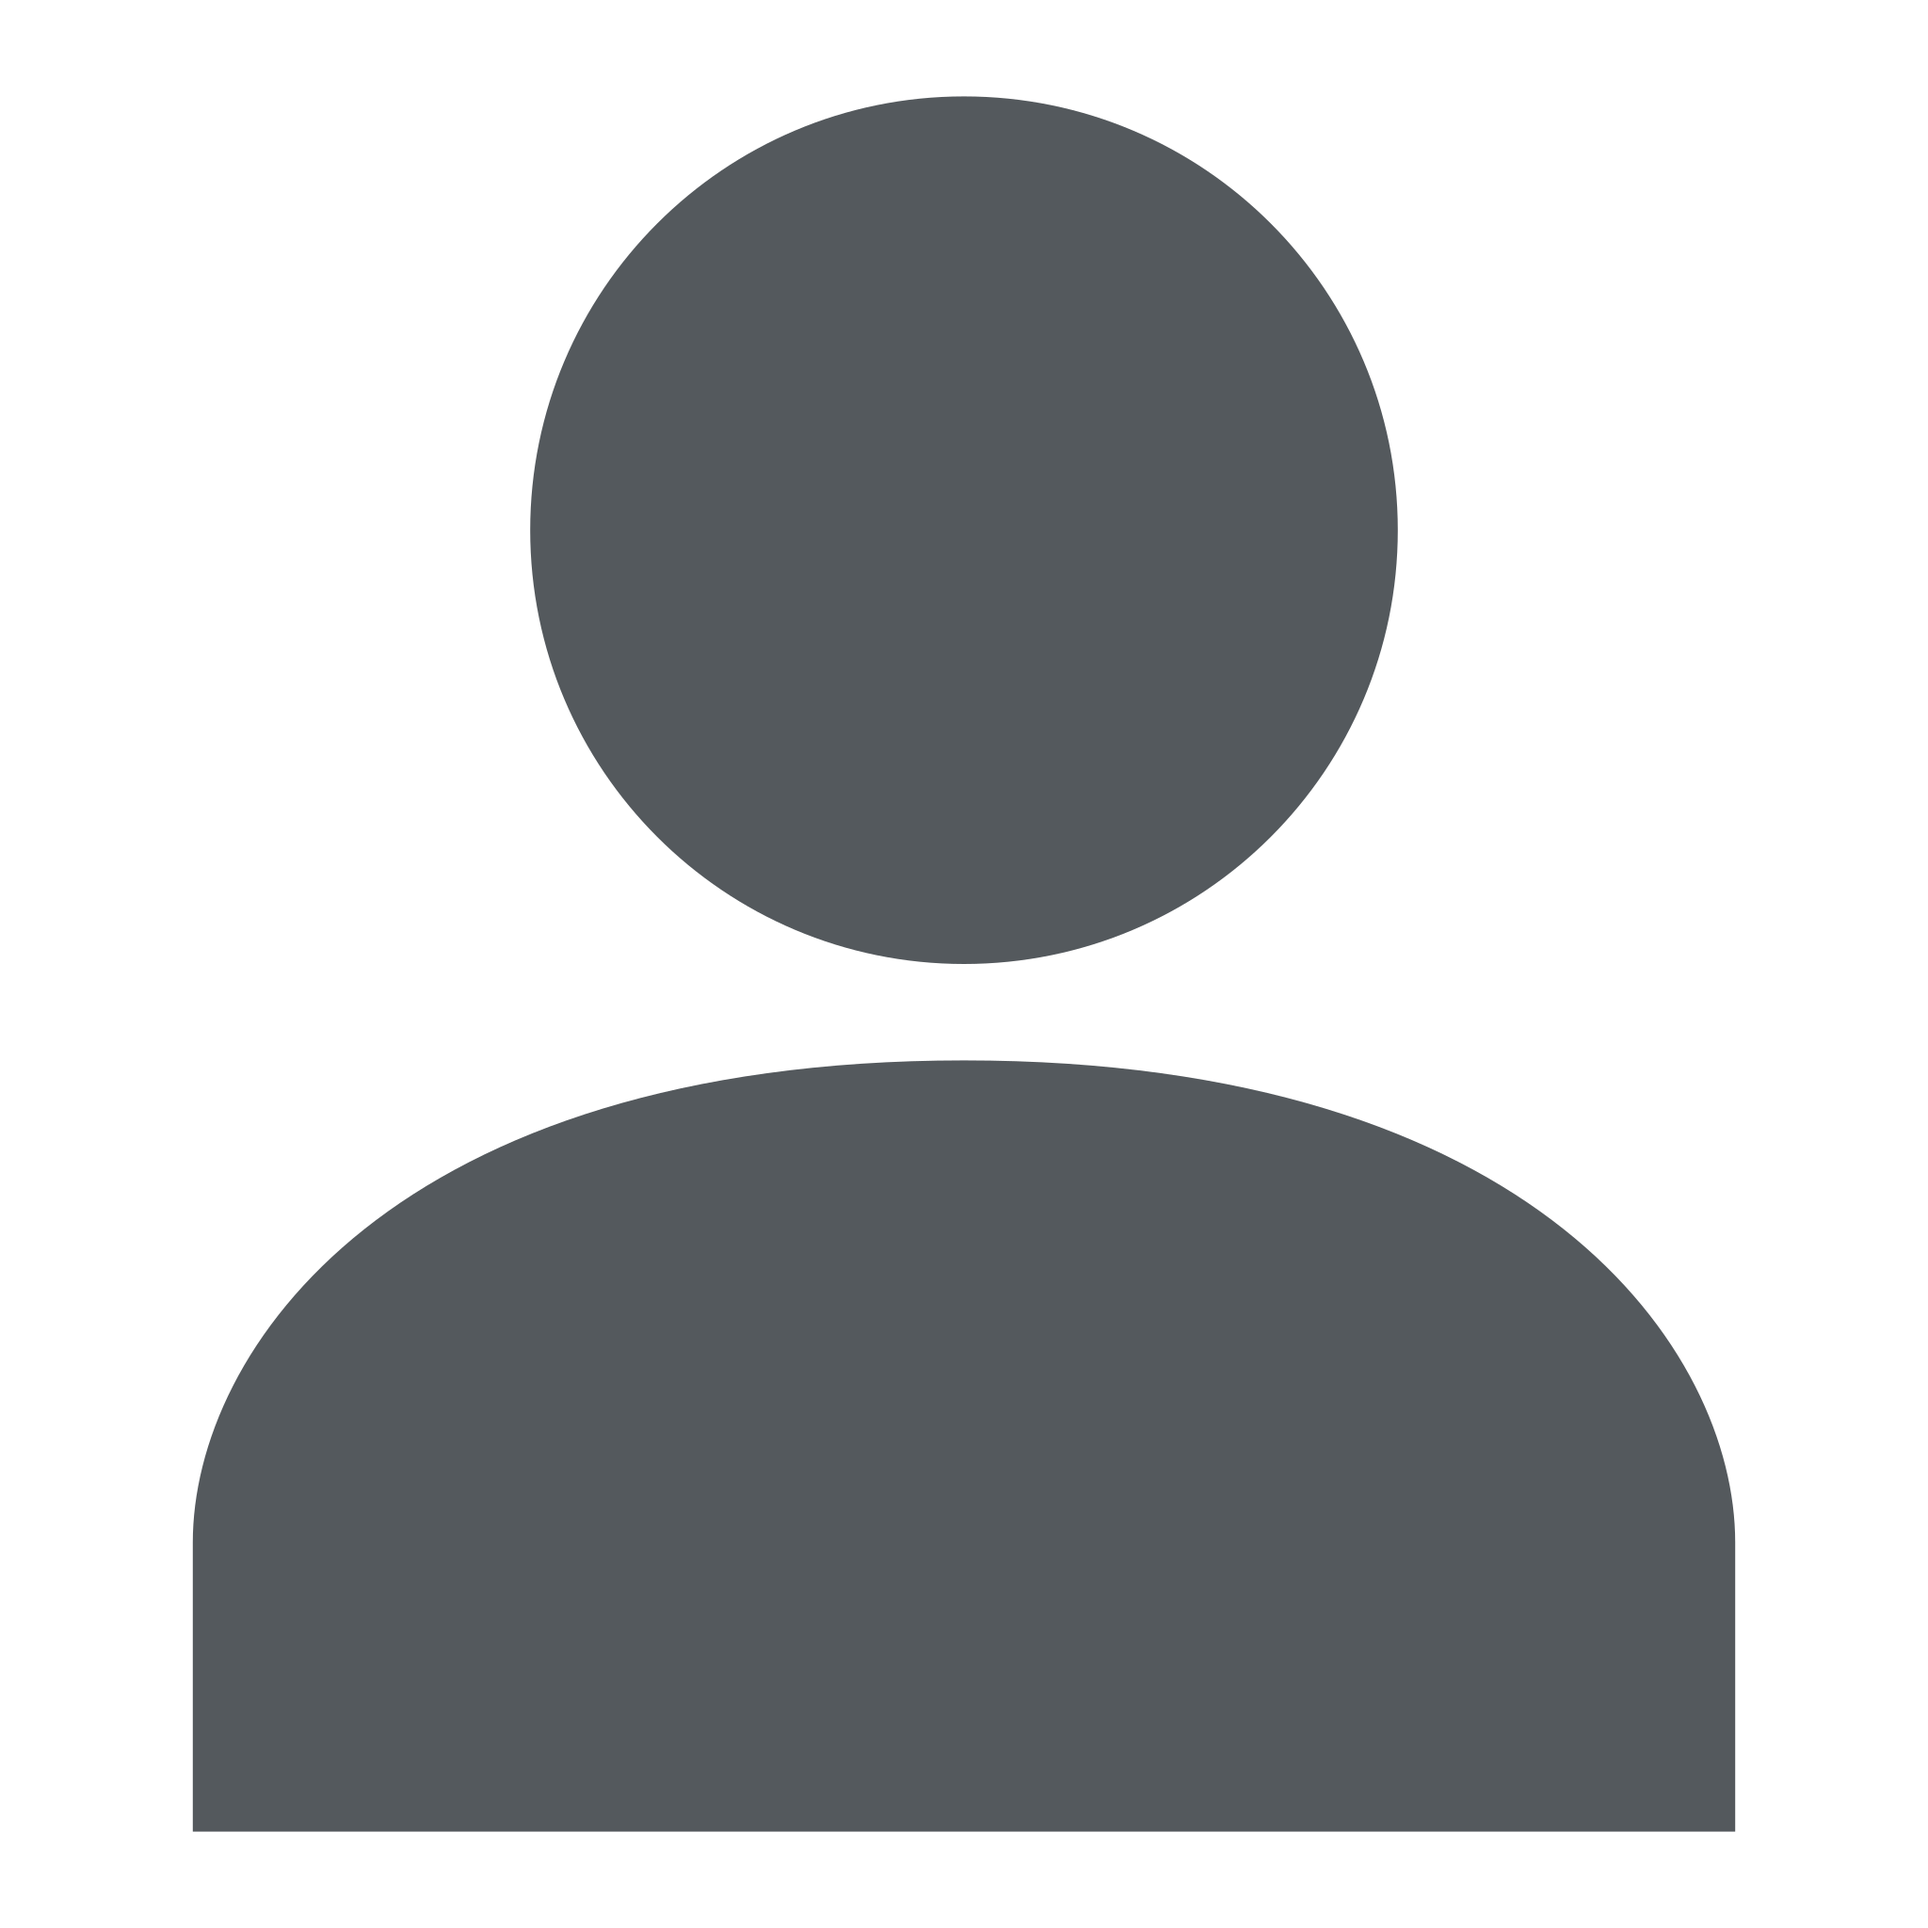
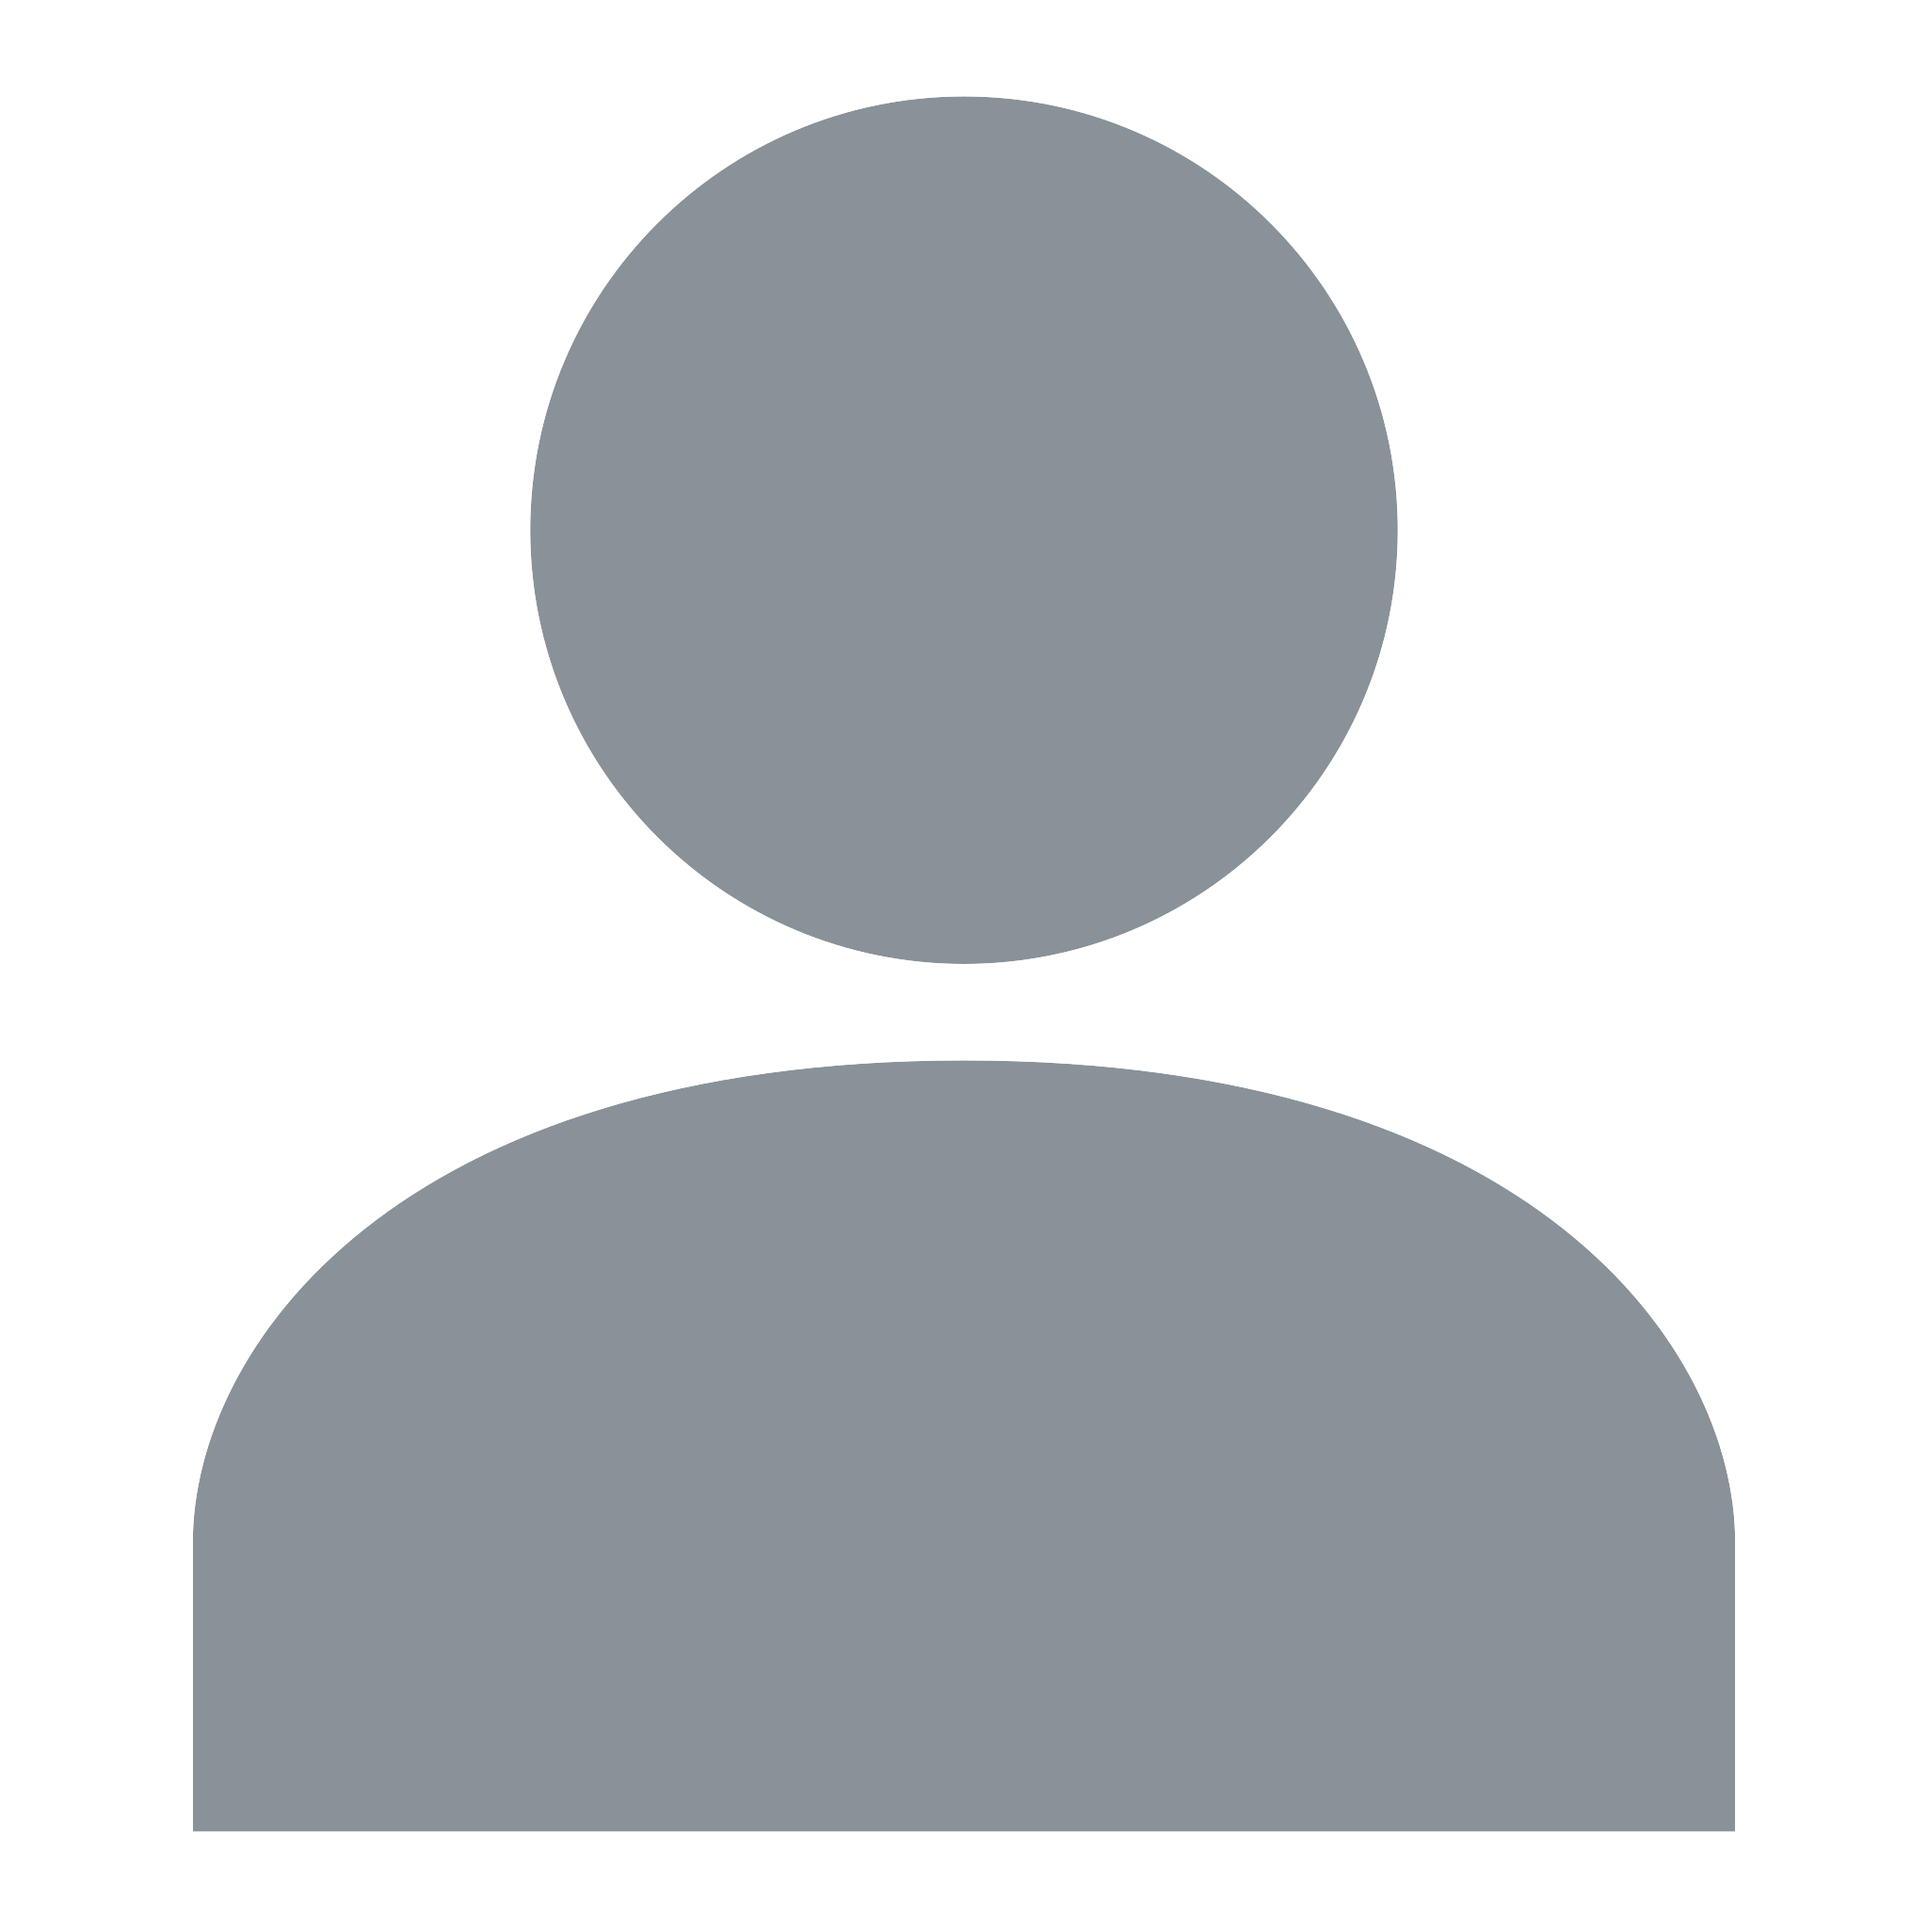
colour scheme and navbar changes

diff --git a/app/assets/stylesheets/pages/_show.scss b/app/assets/stylesheets/pages/_show.scss
@@ -17,7 +17,8 @@
   box-shadow: 1px 1px 2px rgba(0, 0, 0, 0.1);
   padding: 20px;
   width: 100%;
-  background-color: white;
+  background-color: #434b58;
+  color: #b7babb;;
   text-align: center;
 }
 
@@ -34,7 +35,7 @@
 .card h3 {
   margin: 10px 0;
   font-size: 1.5rem;
-  color: darkgrey;
+  color: #b7babb;;
 }
 
 .card a {
@@ -43,7 +44,7 @@
   padding: 10px 20px;
   font-size: 1rem;
   transition: background-color 0.3s ease;
-  color: white;
+  color: #b7babb;
   background-color: red;
   border-radius: 30px;
   box-shadow: 1px 1px darkgrey;
@@ -51,13 +52,13 @@
 }
 
 .card a:hover {
-  color: black;
+  color: #7c8792;
   background-color: darkgrey;
   box-shadow: 2px 2px red;
 }
 
 #back-button {
-  color: #A9A9A9;
+  color: #b7babb;
   text-decoration: none;
   font-size: 1rem;
   margin-top: 10px;
@@ -69,6 +70,6 @@
 }
 
 #back-button:hover {
-  color: darkgrey; 
+  color: #7c8792; 
   background-color: transparent;
 }

diff --git a/app/assets/stylesheets/components/_navbar.scss b/app/assets/stylesheets/components/_navbar.scss
@@ -1,6 +1,7 @@
 .navbar-lewagon {
   justify-content: space-between;
-  background: white;
+  background: #434b58;
+  box-shadow: 0 4px 8px rgba(0, 0, 0, 0.2);
 }
 
 .navbar-lewagon .navbar-collapse {
@@ -12,13 +13,18 @@
 }
 
 .navbar {
-  background-color: #ffffff;
+  padding-top: 16px;
+  padding-bottom: 8px;
 
   a {
     text-decoration: none;
-    color: black;
+    color: #b7babb;
     font-size: larger;
     margin-right: 30px;
+
+    &:hover {
+    color: #7c8792;
+    }
   }
 
   img {
@@ -27,5 +33,11 @@
 
   #navbarDropdown {
     width: 50px;
+    cursor: pointer;
+    transition: filter 0.3s ease;
+
+    &:hover{
+      filter: brightness(80%);
+    }
   }
 }

diff --git a/app/assets/stylesheets/pages/_index.scss b/app/assets/stylesheets/pages/_index.scss
@@ -7,6 +7,7 @@
   grid-template-columns: repeat(auto-fill, minmax(250px, 1fr));
   grid-gap: 16px;
   padding: 16px;
+  padding-top: 0;
 }
 
 .chair-card {
@@ -14,18 +15,18 @@
   flex-direction: column;
   justify-content: center;
   align-items: center;
-  color: darkgrey;
-  background-color: white;
+  color: #b7babb;
+  background-color: #434b58;
   border-radius: 5px;
   box-shadow: 0 0 15px rgba(0,0,0,0.2);
   padding: 16px;
 
   a {
-    color: white;
+    color: #b7babb;
     text-decoration: none;
 
     &:hover {
-      color: grey;
+      color: #7c8792;
     }
   }
 

diff --git a/app/assets/stylesheets/application.scss b/app/assets/stylesheets/application.scss
@@ -10,3 +10,11 @@
 // Your CSS partials
 @import "components/index";
 @import "pages/index";
+
+body {
+  background-color: #A8A8A8;
+}
+
+h1 {
+  color: #222222;
+}

diff --git a/app/assets/stylesheets/pages/_home.scss b/app/assets/stylesheets/pages/_home.scss
@@ -2,7 +2,7 @@
 .banner {
   background-size: cover;
   background-position: center;
-  padding: 200px 0;
+  padding: 220px 0;
 }
 
 .banner h1 {
